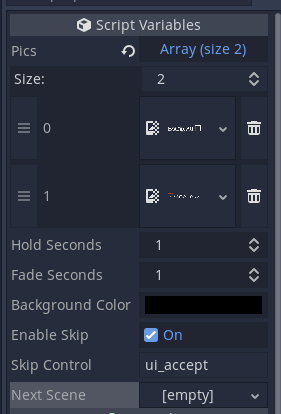
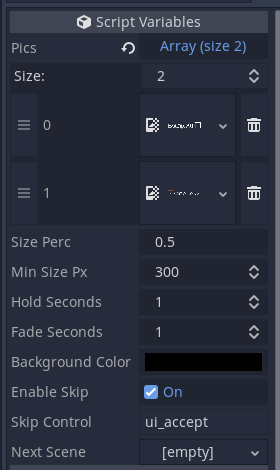
Added pic size and pic min size

diff --git a/README.md b/README.md
@@ -6,6 +6,8 @@ Intro scene with fading pictures (for Godot Game Engine).
 
 - Signal on finish
 - Multiple pics
+- Customizable pic size (based on window size)
+- Customizable pic min size in pixels
 - Customizable seconds to hold the pic still
 - Customizable seconds for fade animation (in and out)
 - Customizable background color
